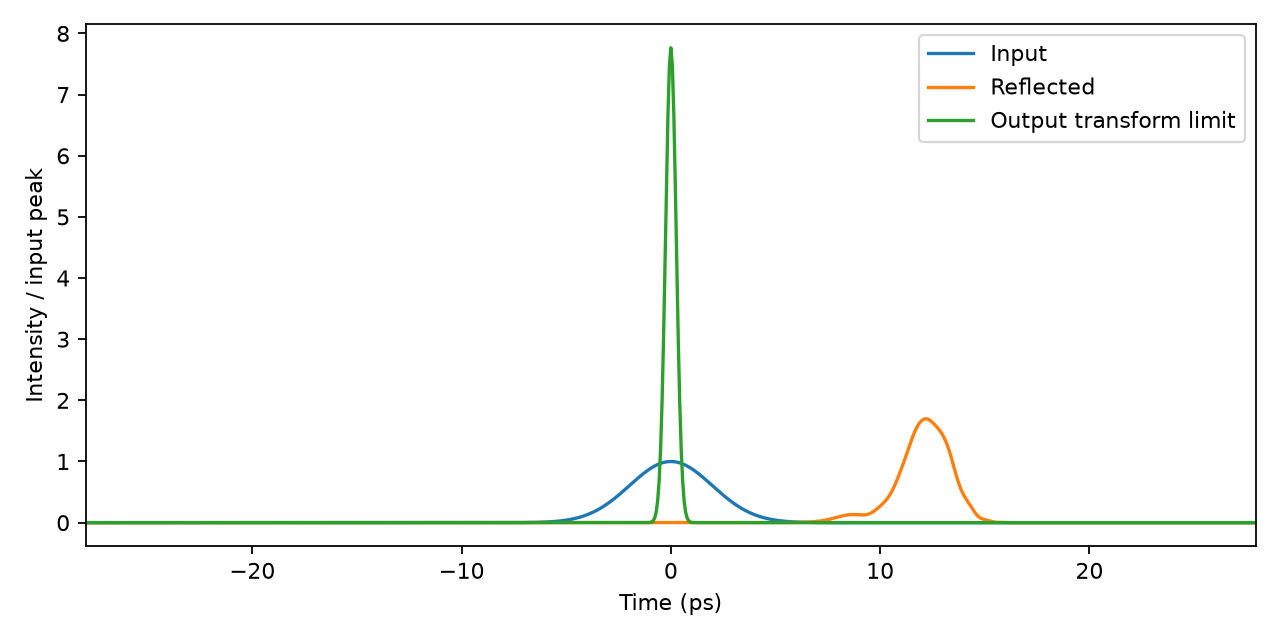
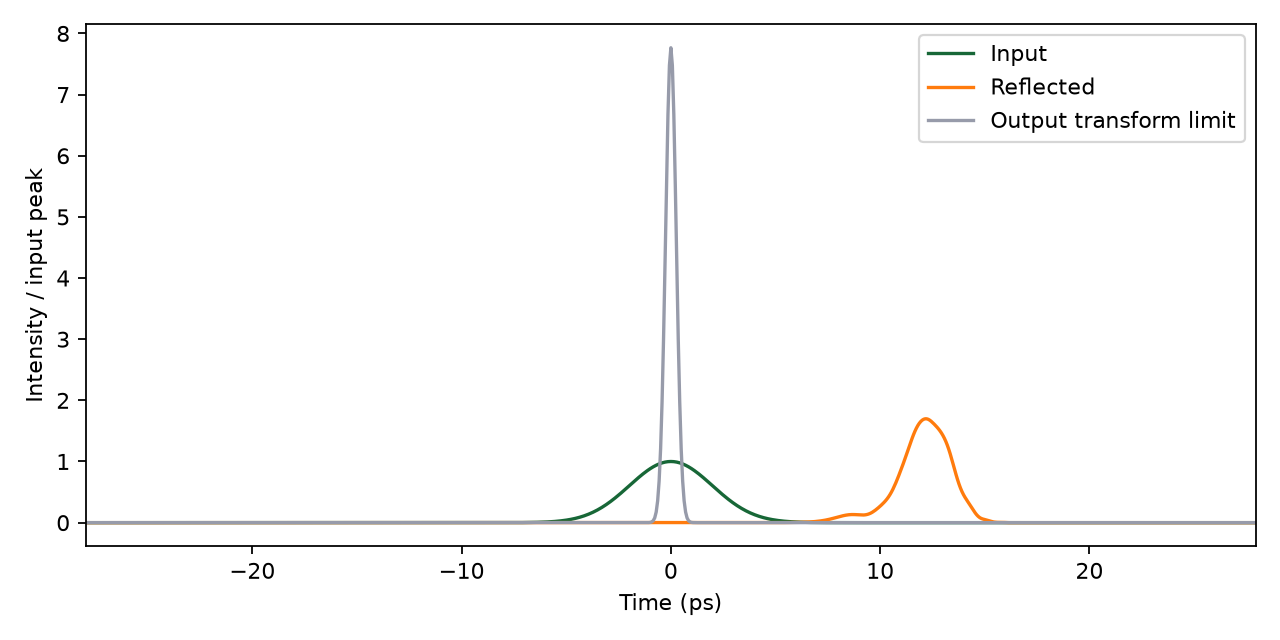
Addition of compression for specified input field

diff --git a/Compression.py b/Compression.py
@@ -1,0 +1,197 @@
+# %% Compression of user-supplied TE0 temporal envelopes (local only)
+"""Run cells in order. Populate INPUT_PROFILE in the empty data cell below.
+
+Provide a COMPLEX field, not intensity. Physical convention: exp(-i omega t).
+No cloud jobs. Grating settings and mode-table selection come from coupledmodemodel.
+The grating is fixed for all inputs: its center period is based on that module's
+CENTER_WAVELENGTH_UM, not on the carrier of the test pulse.
+"""
+from pathlib import Path
+import importlib
+import json
+import warnings
+import numpy as np
+import pandas as pd
+import matplotlib.pyplot as plt
+import coupledmodemodel as cmt
+
+# Reload configuration after changes to coupledmodemodel.py in an Interactive kernel.
+# This does not run its Gaussian example or submit any jobs.
+importlib.reload(cmt)
+PROJECT_DIR = Path(__file__).resolve().parent if '__file__' in globals() else Path.cwd()
+OUTPUT_DIR = PROJECT_DIR / 'outputs/compression'
+MAX_OUTSIDE_ENERGY_FRACTION = 1e-4  # reject rather than silently clip significant energy
+
+# %% Input format instructions
+# In the EMPTY CELL below, assign INPUT_PROFILE using ONE of these formats.
+# These are comments so that running the file without data does not fabricate input.
+#
+# Temporal ENVELOPE (not optical-carrier-resolved field), uniform time samples:
+# INPUT_PROFILE = {
+#     'name': 'nominal_input',
+#     'time_s': time_array_in_seconds,
+#     'field': complex_envelope_array,
+#     'carrier_hz': cmt.c / (1.56e-6),
+# }
+#
+# Spectral field, UNIFORM absolute frequency in Hz (not angular frequency):
+# INPUT_PROFILE = {
+#     'name': 'nominal_input',
+#     'frequency_hz': absolute_frequency_array,
+#     'spectrum': complex_spectral_field_array,
+#     'carrier_hz': cmt.c / (1.56e-6),
+# }
+#
+# For a CSV, use e.g. data = pd.read_csv(PROJECT_DIR / 'data' / 'input.csv')
+# and field = data['real'].to_numpy() + 1j*data['imag'].to_numpy().
+# Convert ps -> seconds by multiplying by 1e-12; THz -> Hz by 1e12.
+# An amplitude/phase representation becomes amplitude*np.exp(1j*phase_radians).
+# Wavelength-sampled spectra need conversion/resampling before this workflow;
+# spectral densities per wavelength additionally need a Jacobian conversion.
+# Inputs using exp(+i omega t) must be converted to the convention above.
+# Use a unique name for each field; otherwise its saved results are overwritten.
+# Multiple fields: define INPUT_PROFILES = [profile_a, profile_b, ...].
+
+# %% YOUR INPUT DATA HERE (intentionally empty)
+
+# %% Validation and Fourier transforms
+def _uniform_arrays(axis, field):
+    x = np.asarray(axis, dtype=float)
+    a = np.asarray(field, dtype=complex)
+    if x.ndim != 1 or a.shape != x.shape or len(x) < 16:
+        raise ValueError('Provide matching 1D arrays with at least 16 samples.')
+    if not np.all(np.isfinite(x)) or not np.all(np.isfinite(a)):
+        raise ValueError('Input contains nonfinite values.')
+    order = np.argsort(x)
+    x, a = x[order], a[order]
+    dx = np.diff(x)
+    if np.any(dx <= 0) or not np.allclose(dx, dx.mean(), rtol=1e-5, atol=0):
+        raise ValueError('Axis must be unique and uniformly sampled. Resample first.')
+    if np.max(abs(a)) == 0:
+        raise ValueError('Input field is zero.')
+    return x, a, dx.mean()
+
+
+def prepare_spectrum(profile):
+    """Forward transform uses +i Omega t; synthesis uses -i Omega t."""
+    carrier = float(profile['carrier_hz'])
+    if not np.isfinite(carrier) or carrier <= 0:
+        raise ValueError('carrier_hz must be positive and finite.')
+    temporal = 'time_s' in profile
+    spectral = 'frequency_hz' in profile
+    if temporal == spectral:
+        raise ValueError('Provide either time_s/field OR frequency_hz/spectrum.')
+    if temporal:
+        time, field, dt = _uniform_arrays(profile['time_s'], profile['field'])
+        # Do not assume the supplied time interval is centered on zero.
+        offsets = np.fft.fftshift(np.fft.fftfreq(len(time), d=dt))
+        spectrum = np.fft.fftshift(np.fft.ifft(field))*len(time)*dt
+        spectrum *= np.exp(2j*np.pi*offsets*time[0])
+        frequency = carrier + offsets
+        edge = np.r_[abs(field[:3])**2, abs(field[-3:])**2].max()
+        if edge > .001*np.max(abs(field)**2):
+            warnings.warn('Temporal field reaches window edges; enlarge input time window.')
+    else:
+        frequency, spectrum, _ = _uniform_arrays(profile['frequency_hz'], profile['spectrum'])
+    return frequency, spectrum, carrier
+
+
+def intensity_fwhm(time_ps, intensity):
+    """Width of peak-connected half-maximum interval, with interpolated crossings.
+
+    This alone does not measure satellites/pedestals; inspect the full trace.
+    """
+    peak = int(np.argmax(intensity))
+    half = intensity[peak]/2
+    left = peak
+    right = peak
+    while left > 0 and intensity[left-1] >= half:
+        left -= 1
+    while right < len(intensity)-1 and intensity[right+1] >= half:
+        right += 1
+    if left == 0 or right == len(intensity)-1:
+        return None
+    tleft = np.interp(half, intensity[left-1:left+1], time_ps[left-1:left+1])
+    tright = np.interp(half, intensity[right:right+2][::-1], time_ps[right:right+2][::-1])
+    return float(tright-tleft)
+
+# %% Fixed-grating compression function
+def compress_profile(profile, output_dir=OUTPUT_DIR):
+    frequency, spectrum, carrier = prepare_spectrum(profile)
+    indices, low, high = cmt.load_indices(cmt.MODE_CSV)
+    inside = (frequency >= low) & (frequency <= high)
+    power = abs(spectrum)**2
+    outside_fraction = float(power[~inside].sum()/power.sum())
+    if outside_fraction > MAX_OUTSIDE_ENERGY_FRACTION:
+        raise ValueError(f'{outside_fraction:.3%} input spectral energy lies outside '
+                         'the mode tables. Extend the mode sweep before compression.')
+    r = np.zeros(len(frequency), dtype=complex)
+    if not inside.any():
+        raise ValueError('No overlap with mode tables.')
+    r[inside], _, period = cmt.reflection_spectrum(frequency[inside], *indices)
+    # Out-of-table negligible tails are explicitly zeroed, never extrapolated.
+    reflected = r*spectrum
+    df = frequency[1]-frequency[0]
+    count = len(frequency)
+    times_ps = np.fft.fftshift(np.fft.fftfreq(count, d=df))*1e12
+    def synthesize(a):
+        # Lowest sampled frequency need not equal an FFT baseband bin.
+        field = np.fft.fftshift(np.fft.fft(a))*df
+        return field*np.exp(-2j*np.pi*(frequency[0]-carrier)*times_ps*1e-12)
+    fields = [synthesize(spectrum), synthesize(reflected), synthesize(abs(reflected))]
+    intensities = [abs(a)**2 for a in fields]
+    norm = intensities[0].max()
+    if norm == 0:
+        raise ValueError('Input transform is zero.')
+    for intensity in intensities:
+        if max(intensity[:3].max(), intensity[-3:].max()) > .001*intensity.max():
+            warnings.warn('A time trace reaches FFT boundaries: increase frequency '
+                          'resolution/time window and check wraparound convergence.')
+    name = str(profile.get('name', 'input_field'))
+    if Path(name).name != name or name in ['', '.', '..']:
+        raise ValueError('Profile name must be a simple folder name, not a path.')
+    destination = Path(output_dir)/name
+    destination.mkdir(parents=True, exist_ok=True)
+    temporal = pd.DataFrame({'time_ps': times_ps})
+    for label, field in zip(['input', 'output', 'output_transform_limit'], fields):
+        temporal[f'{label}_real'] = field.real
+        temporal[f'{label}_imag'] = field.imag
+        temporal[f'{label}_intensity_over_input_peak'] = abs(field)**2/norm
+    temporal.to_csv(destination/'temporal_fields.csv', index=False)
+    pd.DataFrame(dict(frequency_hz=frequency, input_real=spectrum.real,
+        input_imag=spectrum.imag, r_real=r.real, r_imag=r.imag,
+        output_real=reflected.real, output_imag=reflected.imag,
+        inside_mode_table=inside)).to_csv(destination/'spectral_fields.csv', index=False)
+    metrics = dict(name=name, reflected_energy_fraction=float(abs(reflected @ reflected.conj())/
+        power.sum()), outside_mode_table_energy_fraction=outside_fraction,
+        input_fwhm_ps=intensity_fwhm(times_ps, intensities[0]),
+        output_fwhm_ps=intensity_fwhm(times_ps, intensities[1]),
+        output_transform_limit_fwhm_ps=intensity_fwhm(times_ps, intensities[2]),
+        note='Uncalibrated scalar CMT; TE0 temporal envelope; arbitrary input units.',
+        mode_csv=str(cmt.MODE_CSV), carrier_hz=carrier, period_center_um=period,
+        length_um=cmt.LENGTH_UM, period_span_um=cmt.PERIOD_SPAN_UM,
+        orientation=cmt.ORIENTATION, duty=cmt.DUTY, segments=cmt.SEGMENTS,
+        kappa_scale=cmt.KAPPA_SCALE, loss_db_per_cm=cmt.LOSS_DB_PER_CM,
+        apodization_fraction=cmt.APODIZATION_FRACTION)
+    (destination/'metrics.json').write_text(json.dumps(metrics, indent=2))
+    fig, ax = plt.subplots(figsize=(9, 4))
+    for intensity, label in zip(intensities, ['Input', 'Reflected', 'Output transform limit']):
+        ax.plot(times_ps, intensity/norm, label=label)
+    ax.set(xlabel='Time (ps)', ylabel='Intensity / input peak', title=name)
+    ax.legend(); fig.tight_layout()
+    fig.savefig(destination/'compression.png', dpi=160)
+    plt.show()
+    print(json.dumps(metrics, indent=2))
+    print(f'Saved: {destination}')
+    return metrics
+
+# %% Run after entering data; no invented field if the input cell is empty
+if __name__ == '__main__':
+    profiles = globals().get('INPUT_PROFILES')
+    if profiles is None:
+        single = globals().get('INPUT_PROFILE')
+        profiles = [] if single is None else [single]
+    if not profiles:
+        print('No input loaded. Fill the YOUR INPUT DATA HERE cell, then rerun this cell.')
+    else:
+        compression_results = [compress_profile(profile) for profile in profiles]

diff --git a/coupledmodemodel.py b/coupledmodemodel.py
@@ -211,3 +211,5 @@ def run():
 # %% Execute only when running this file/cell sequence, not when importing for tests
 if __name__ == '__main__':
     spectrum, metadata = run()
+
+# %%

diff --git a/EMEvalidation.py b/EMEvalidation.py
@@ -1,0 +1,1 @@
+# %% 
